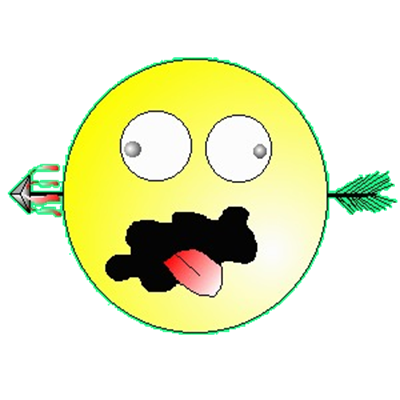
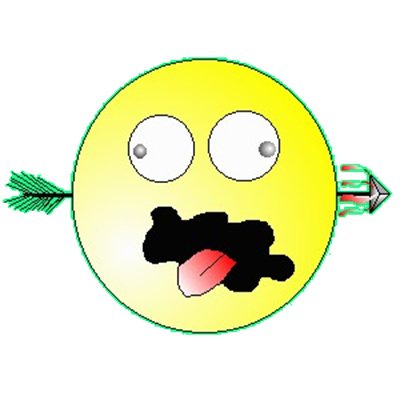
Update
flipped smiley

diff --git a/startGUI.m b/startGUI.m
@@ -63,24 +63,31 @@ movegui(hFig,'center')
 % Make the GUI visible.
 set(hFig,'Visible','on')
 
+%% Nested Callback Functions Section
+    function popup_menu_Callback(source,eventdata)
+        % Determine the selected data set.
+        str = get(source, 'String');
+        val = get(source, 'Value');
+        % Set current data to the selected data set.
+        switch str{val};
+            case 'MLE' % User selects Peaks.
+                type = 'mle'
+            case 'MAP' % User selects Membrane.
+                type = 'map'
+            case 'LDA' % User selects Sinc.
+                type = 'lda'
+        end
+    end
+
+    function runbutton_Callback(source,eventdata)
+        spears = [1 2 1 2 1 2];
+        smiles = [2 1 2 1 2 2];
+        perceived = [1.1 2.1 1.5 1.9 0.9 2];
+        % Run spear demo
+        figPos = get(hFig,'Position');
+        [frames] = spearDemo(spears, smiles, perceived,figPos);
+        movie(hFig,frames,1,2,[0 figPos(4)*.33 0 0]);
+    end
+
 end
 
-function popup_menu_Callback(source,eventdata)
-% Determine the selected data set.
-str = get(source, 'String');
-val = get(source, 'Value');
-% Set current data to the selected data set.
-switch str{val};
-    case 'MLE' % User selects Peaks.
-        type = 'mle'
-    case 'MAP' % User selects Membrane.
-        type = 'map'
-    case 'LDA' % User selects Sinc.
-        type = 'lda'
-end
-end
-
-function runbutton_Callback(source,eventdata)
-% Run platform demo
-platformDemo()
-end

diff --git a/spearDemo.m b/spearDemo.m
@@ -1,13 +1,13 @@
-function [frames] = spearDemo(spears, smiles, perceived)
+function [frames] = spearDemo(spears, smiles, perceived, figPos)
 
     % Setup the timesteps / canvas / initial plot
     timesteps = min(length(spears), ...
         min(length(smiles), length(perceived)));
-    
-    figure('Renderer', 'zbuffer');
+    newPos = [0 0 figPos(3)*.67 figPos(4)*.67];
+    figure('Renderer', 'zbuffer','Position',newPos);
     hold on;
     
-    height = 2;
+    height = 3;
     width = 5;
     axis([0 width 0 height]);
     
@@ -22,12 +22,12 @@ function [frames] = spearDemo(spears, smiles, perceived)
     % Set the smiley's initial position / condition (alive)
     dead = false;
     smileyRight = 0.9; smileyLeft = 0.1; 
-    smileyTop = 0.75; smileyBottom = 0.25;
+    smileyTop = 1.25; smileyBottom = 0.75;
     smileOffset = 0;
     
     % Assign the possible spear heights
-    spearLow = [0.5, 0.5];
-    spearHigh = [1.5, 1.5];
+    spearLow = [1, 1];
+    spearHigh = [2, 2];
     
     % Draw initial spears
     for x=(1:width)

diff --git a/generateSignal.m b/generateSignal.m
@@ -1,0 +1,28 @@
+function signal = generateSignal(spears,type)
+    % GENERATESIGNAL Creates signals for a set of spear locations
+    % Type for now has to be 'gaussian' 
+    
+    % Smiley has rudimentary eyesight, and assumptions (that can be
+    % modified by the user) about how his eyesight corresponds to actual
+    % spear locations. Each spear generates a perceived location (a 
+    % signal). Smiley has to use this signal and his assumptions to make a
+    % decision.
+    
+    % Signal generation distribution parameters. Basically determines the
+    % "blurriness" of his eyesight.
+    mu1 = 1; sigma1 = 0.5;
+    mu2 = 2; sigma2 = 0.5;
+   
+    signal = zeros(1,length(spears));
+    
+    % Use parameters to create signals
+    if strcmpi(type,'gaussian')
+        for i=1:length(spears)
+            if spears(i) == 1
+                signal(i) = normrnd(mu1,sigma1);
+            else
+                signal(i) = normrnd(mu2,sigma2);
+            end
+        end
+    end
+end

diff --git a/generateSpears.m b/generateSpears.m
@@ -1,0 +1,4 @@
+function [spears] = generateSpears(prior1)
+    % Generates spears with priors
+    prior2 = 1-prior1;
+end
